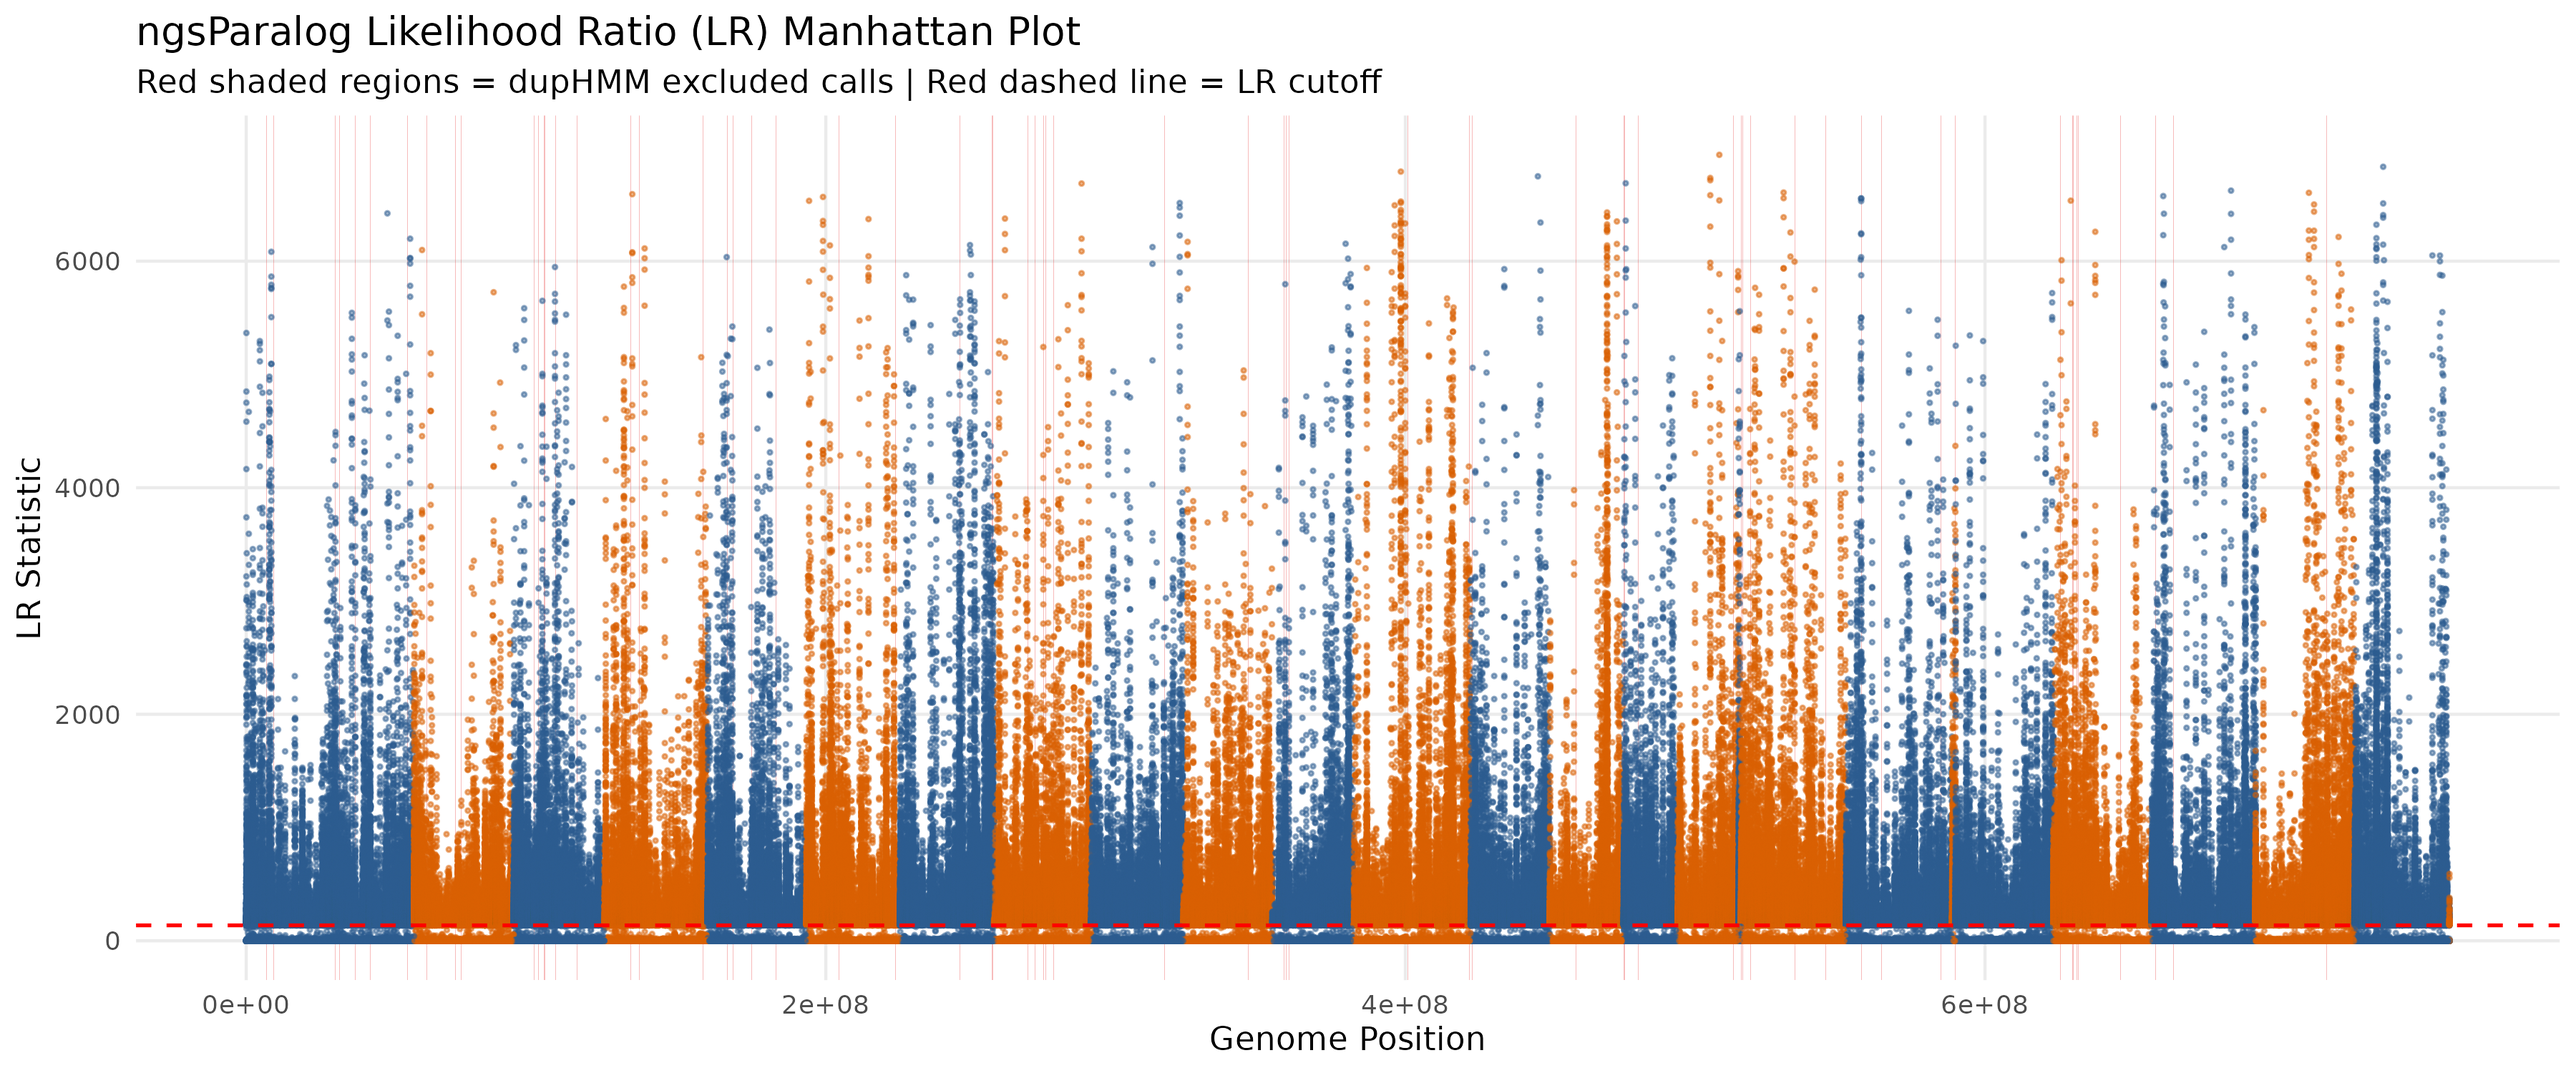
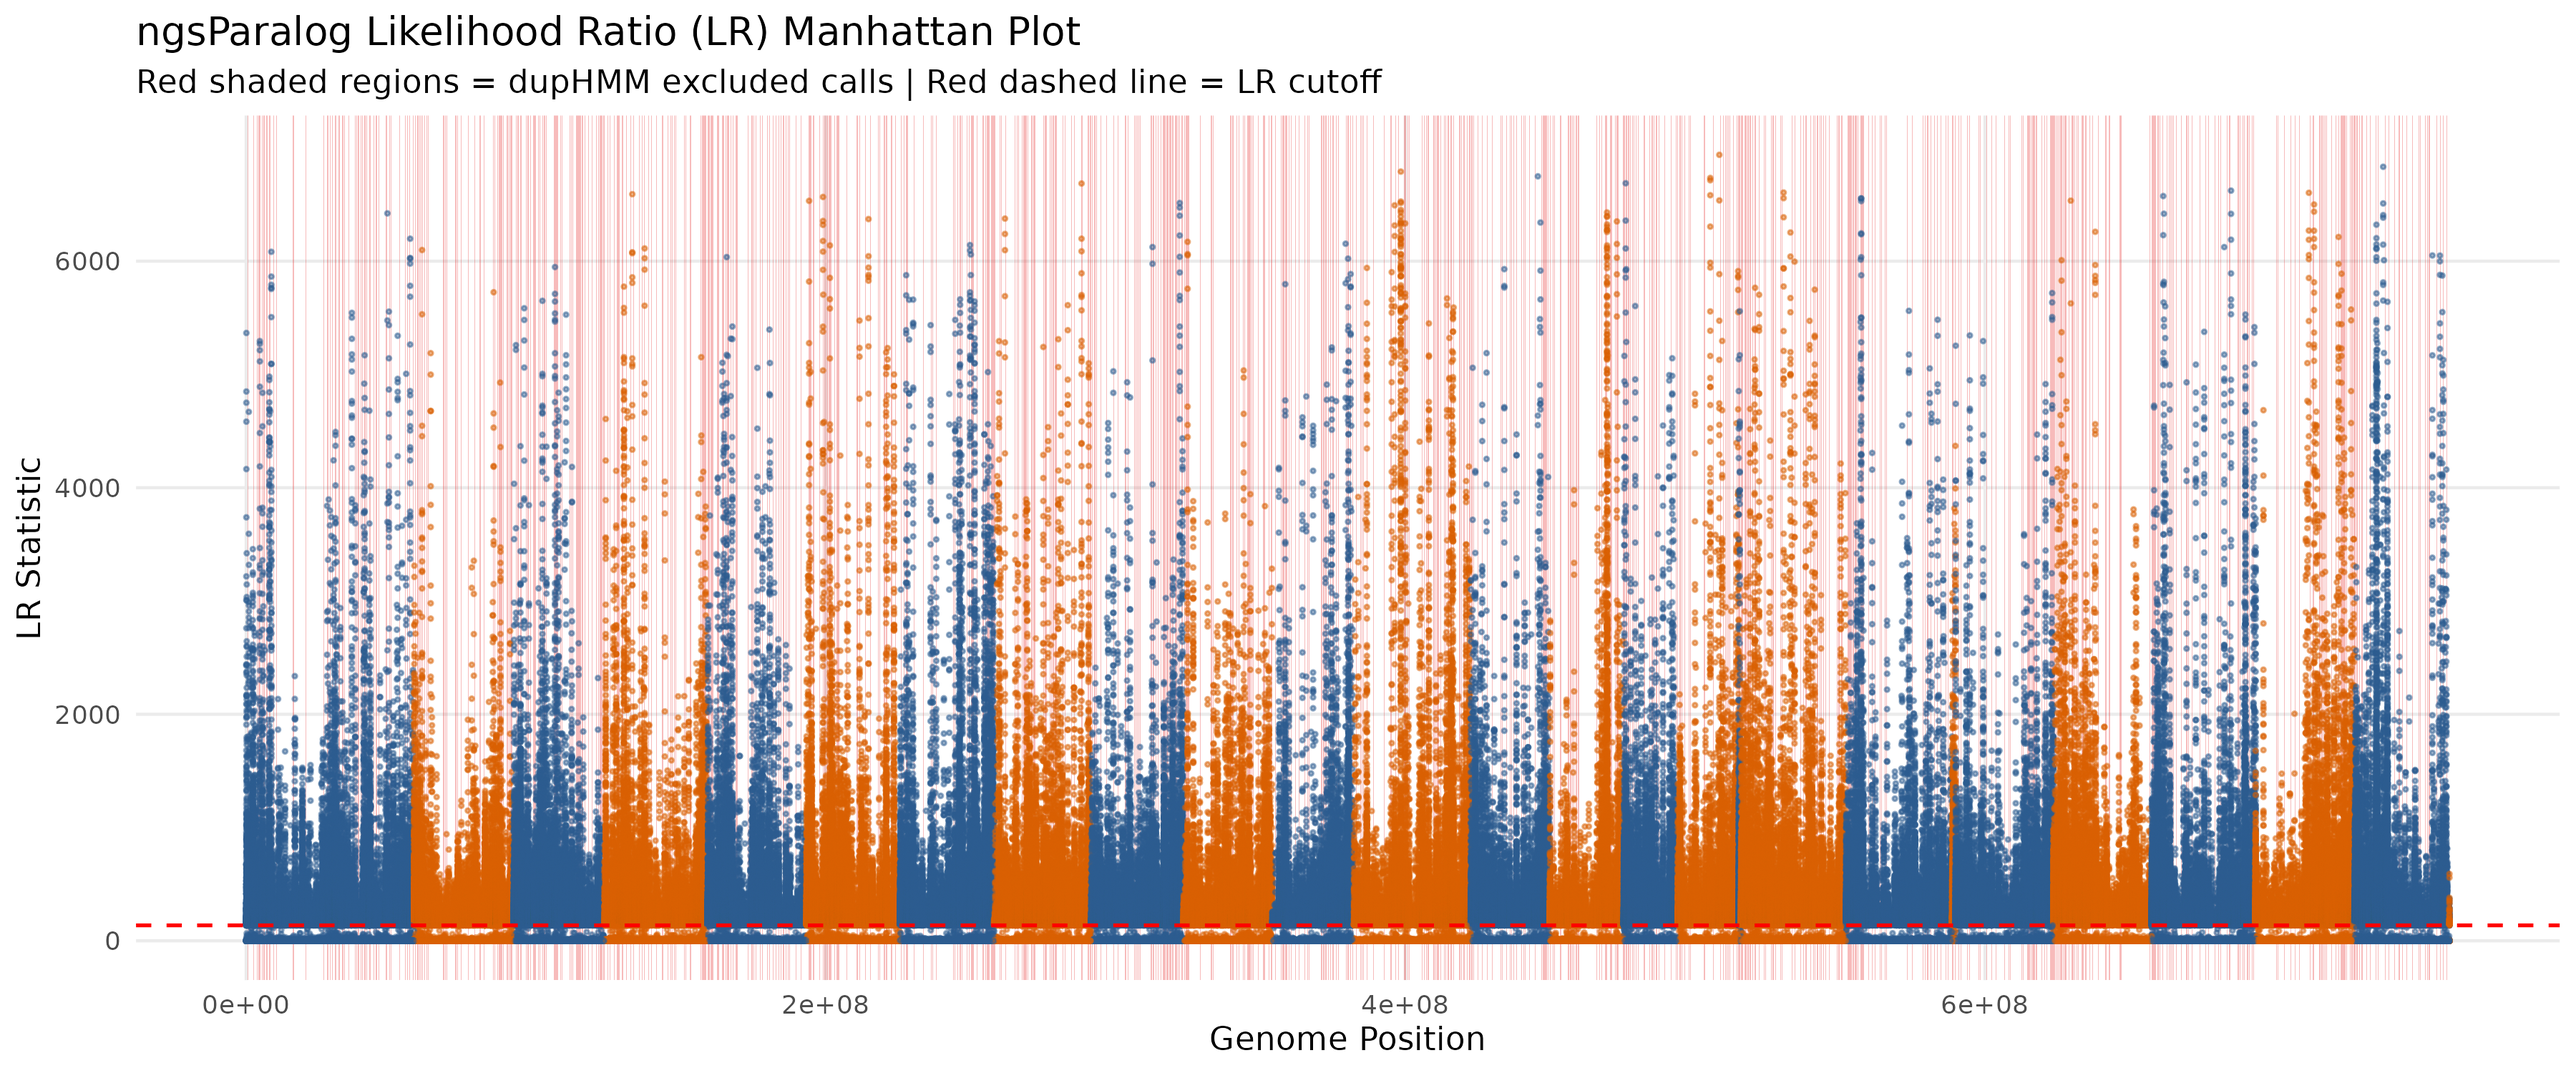
Finish nf-paralog plots, plot paralog and repeat masking overlaps

Changed region(s): [[0.0933, 0.092, 0.9644, 0.736], [0.0933, 0.8587, 0.9644, 0.92]]

diff --git a/README.md b/README.md
@@ -526,90 +526,8 @@ Wrote `output/mia/CviAPal032_Ex1_4G.maln.F.mia_consensus.3x_0.67_filtered.fasta`
 
 Both are empty.
 
-
-## 11 Test for paralogs
-Some SFS plots made for a different project (`pire_synthesis`) have an excess of loci with alleles at 50:50. Let's test for paralogs by
-
-1. Testing for excess heterozygosity and depth with angsd
-2. Running `ngsParalog`
-
-Start by copying over the base of the nf-trim-generode pipeline:
-```
-rsync -a --exclude='work/' --exclude='results/' --exclude='results-iridian/' --exclude='.nextflow/' --exclude='.nextflow.log*' /archive/carpenterlab/pire/mpinsky/pire_chromis_viridis_lcwgs/nf-pipelines/nf-trim-generode/ /archive/carpenterlab/pire/mpinsky/pire_chromis_viridis_lcwgs/nf-pipelines/nf-paralog/
-
-cd nf-pipelines/nf-paralog
-```
-
-Wrote a new [`main.nf`](nf-pipelines/nf-paralog/main.nf) that maps the modern reads (without trimming to match the historical read length) with very few quality filters, then runs ANGSD (HWE and depth tests) and ngsParalog. Updated the [`nextflow.config`](nf-pipelines/nf-paralog/nextflow.config) file to match.
-
-The same parameters and input files as `nf-trim-generode` should be good. Set parameter flags for runnning dupHMM with both LR and coverage. 
-
-Also set:
-```
-params.min_ind_ratio = 0.5 // Require coverage in at least 50% of samples
-params.high_depth_quantile = 0.995 // target high depth percentile cutoff
-params.lr_quantile = 0.999 // Target percentile cutoff for ngsParalog likelihood ratio (e.g., 0.999 = top 0.1% highest LR sites)
-params.hwe_pval    = 1e-3  // Target p-value threshold for HWE excess heterozygosity filtering. This is quite high for only 9 modern individuals.
-params.duphmm_merge_dist = -1  // Maximum distance (bp) between regions to merge in output from dupHMM. -1 will merge only overlapping regions
-params.duphmm_min_len    = 1  // Minimum length (bp) threshold for retained regions in output from dupHMM. Retain all.
-params.mask_window   = 1000  // Distance (bp) to extend masking in both directions around identified paralogous regions/SNPs
-```
-
-Start it in the existing tmux shell:
-```
-tmux a -t nextflow
-cd ../nf-paralog/
-nextflow run main.nf -profile wahab -resume
-```
-
-Output:
-```
-[ANGSD_HWE_DEPTH] Total BAMs: 9 | Calculated minInd: 4
-Calculated Average Read Length: 147.359 bp
-Estimated Mean Population Depth: 49.5492x
-Setting ANGSD -setMaxDepth input filter for depthGlobal histogram to 500 to filter out coverage spikes
-High depth cutoff (0.995 quantile) for flagging problematic high-depth regions: 100 total depth
-```
-
-BED files, fastp reports, site allele balance, bam files and other results in the `results/` directory (including `large_data/` not tracked by git). Key plots are:
-![Allele balance](nf-pipelines/nf-paralog/results/plots/allele_balance_vs_het.png)
-
-![Manhattan plot of mapped depth](nf-pipelines/nf-paralog/results/plots/angsd_depth_manhattan.png)
-
-![Manhattan plot of HWE disequilibrium](nf-pipelines/nf-paralog/results/plots/angsd_hwe_manhattan.png)
-
-![Manhattan plot of ngsParalog likelihood ratios for paralogous regions](nf-pipelines/nf-paralog/results/plots/ngsparalog_lr_manhattan.png)
-
-![Histogram of the length of regions flagged by each method](nf-pipelines/nf-paralog/results/plots/filter_region_length_histograms.png)
-
-![Barplot of overlap among the regions flagged by each methods](nf-pipelines/nf-paralog/results/plots/paralog_filter_overlaps.png)
-
-![Manhattan plot of the overlap among regions flagged by each method](nf-pipelines/nf-paralog/results/plots/filter_overlaps_manhattan.png)
-
-### 11.1 Do paralogous and repeat regions overlap?
-Made a script to plot the overlap of Repeat Masker's identified regions and the newly identified regions. From the base directory:
-```
-sbatch scripts/plot_repeat_paralog_overlaps.sbatch
-```
-![Plot of overlapping regions between repeat and paralog detection methods](output/paralogs/repeats_paralog_overlaps.png).
-
-Shows that
-
-1) RepeatMasker found by far the largest length of problematic regions (158 Mb)
-2) Most (75%) of the regions found by DUPHMM were also found by RepeatMasker
-
-For Cvi, RepeatMasker looks like the more important mask.
-
-
-### 11.2 Clean up
-Remove the 214G temporary directory:
-```
-rm -r nf-pipelines/nf-paralog/work/
-```
-
-
-## 12. Retrim and map only Cvi individuals with nf-trim-generode
-Trimming and mapping pipeline that includes repeat masking, doesn't trim historical reads, includes bug-fixed `split_reads.sh`, does mapdamage rescaling of bam files, and merges repeat mask with a paralog mask. Get the files from an updated branch in my home directory, then made edits (now also available from the [nf-pipelines](https://github.com/philippinespire/nf-pipelines/) repo).
+## 11. Retrim and map only Cvi individuals with nf-trim-generode
+Trimming and mapping pipeline that includes repeat masking, doesn't trim historical reads, includes bug-fixed `split_reads.sh`, and does mapdamage rescaling of bam files. Get the files from an updated branch in my home directory, then made edits (now also available from the [nf-pipelines](https://github.com/philippinespire/nf-pipelines/) repo).
 ```
 cd /archive/carpenterlab/pire/mpinsky/
 rsync -a --exclude='work/' --exclude='results/' --exclude='.nextflow*' --exclude='.nextflow/' --exclude='examples/' nf-pipelines/nf-trim-generode pire_chromis_viridis_lcwgs/nf-pipelines/
@@ -672,14 +590,14 @@ Finished in 7 hrs. Found 103 bp average historical length and mapped with `bwa m
 
 Inspecting the [AMBER plots](nf-pipelines/nf-trim-generode/results/amber), the read length gap from 50-60bp has been fixed by the new `split_reads.sh` script. The historical reads have a wider read length distribution than the modern since there is a substantial fraction of short historical reads, plus some merged historical reads. The [mapdamage plots](nf-pipelines/nf-trim-generode/results/mapdamage/) still show many soft-clipped historical reads, despite stricter mapping, but very little evidence of historical damage patterns. Could summarize the `*_misincorporation.txt` files into a multi-individual plot.
 
-### 12.2 Depth vs. reads
+### 11.2 Depth vs. reads
 Plot read depth vs. number of reads
 ```
 sbatch scripts/plot_depth_vs_reads.sbatch nf-pipelines/nf-trim-generode/data/symlinks nf-pipelines/nf-trim-generode/results/depth output/depth_vs_reads_nf-trim-generode.txt output/depth_vs_reads_nf-trim-generode.pdf
 ```
 [Plot](output/depth_vs_reads_nf-trim-generode.pdf) shows that, as expected, depth increases with the number of reads. Depth increases much more strongly for modern than for historical individuals.
 
-### 12.3 Softclipping
+### 11.3 Softclipping
 Run mapdamage diagnostics on the modern Cvi files with a custom script to check if they also have soft-clipping:
 ```
 sbatch scripts/run_mapdamage_diagnostics.sbatch
@@ -691,6 +609,86 @@ Also make histograms of fraction soft-clipped by individual and by contig with a
 sbatch scripts/soft_clip_analysis.sbatch nf-pipelines/nf-trim-generode/results/data/bam/*.bam
 ```
 The [histogram by contig](output/softclip_analysis/histogram_soft_clipped_per_contig.png) shows a handful of contigs with >30% clipping. A [handful of individuals](output/softclip_analysis/histogram_soft_clipped_per_individual.png) also have a lot of soft-clipping.
+
+## 12 Test for paralogs
+Some SFS plots made for a different project (`pire_synthesis`) have an excess of loci with alleles at 50:50. Let's test for paralogs by
+
+1. Testing for excess heterozygosity and depth with angsd
+2. Running `ngsParalog`
+
+Start by copying over the base of the nf-trim-generode pipeline:
+```
+rsync -a --exclude='work/' --exclude='results/' --exclude='results-iridian/' --exclude='.nextflow/' --exclude='.nextflow.log*' /archive/carpenterlab/pire/mpinsky/pire_chromis_viridis_lcwgs/nf-pipelines/nf-trim-generode/ /archive/carpenterlab/pire/mpinsky/pire_chromis_viridis_lcwgs/nf-pipelines/nf-paralog/
+
+cd nf-pipelines/nf-paralog
+```
+
+Wrote a new [`main.nf`](nf-pipelines/nf-paralog/main.nf) that maps the modern reads (without trimming to match the historical read length) with very few quality filters, then runs ANGSD (HWE and depth tests) and ngsParalog. Updated the [`nextflow.config`](nf-pipelines/nf-paralog/nextflow.config) file to match.
+
+The same parameters and input files as `nf-trim-generode` should be good. Set parameter flags for runnning dupHMM with both LR and coverage. 
+
+Also set:
+```
+params.min_ind_ratio = 0.5 // Require coverage in at least 50% of samples
+params.high_depth_quantile = 0.995 // target high depth percentile cutoff
+params.lr_quantile = 0.999 // Target percentile cutoff for ngsParalog likelihood ratio (e.g., 0.999 = top 0.1% highest LR sites)
+params.hwe_pval    = 1e-3  // Target p-value threshold for HWE excess heterozygosity filtering. This is quite high for only 9 modern individuals.
+params.duphmm_merge_dist = -1  // Maximum distance (bp) between regions to merge in output from dupHMM. -1 will merge only overlapping regions
+params.duphmm_min_len    = 1  // Minimum length (bp) threshold for retained regions in output from dupHMM. Retain all.
+params.mask_window   = 1000  // Distance (bp) to extend masking in both directions around identified paralogous regions/SNPs
+```
+
+Start it in the existing tmux shell:
+```
+tmux a -t nextflow
+cd ../nf-paralog/
+nextflow run main.nf -profile wahab -resume
+```
+
+Output:
+```
+[ANGSD_HWE_DEPTH] Total BAMs: 9 | Calculated minInd: 4
+Calculated Average Read Length: 147.359 bp
+Estimated Mean Population Depth: 49.5492x
+Setting ANGSD -setMaxDepth input filter for depthGlobal histogram to 500 to filter out coverage spikes
+High depth cutoff (0.995 quantile) for flagging problematic high-depth regions: 100 total depth
+```
+
+BED files, fastp reports, site allele balance, bam files and other results in the `results/` directory (including `large_data/` not tracked by git). Key plots are:
+![Allele balance](nf-pipelines/nf-paralog/results/plots/allele_balance_vs_het.png)
+
+![Manhattan plot of mapped depth](nf-pipelines/nf-paralog/results/plots/angsd_depth_manhattan.png)
+
+![Manhattan plot of HWE disequilibrium](nf-pipelines/nf-paralog/results/plots/angsd_hwe_manhattan.png)
+
+![Manhattan plot of ngsParalog likelihood ratios for paralogous regions](nf-pipelines/nf-paralog/results/plots/ngsparalog_lr_manhattan.png)
+
+![Histogram of the length of regions flagged by each method](nf-pipelines/nf-paralog/results/plots/filter_region_length_histograms.png)
+
+![Barplot of overlap among the regions flagged by each methods](nf-pipelines/nf-paralog/results/plots/paralog_filter_overlaps.png)
+
+![Manhattan plot of the overlap among regions flagged by each method](nf-pipelines/nf-paralog/results/plots/filter_overlaps_manhattan.png)
+
+Without the 1kb padding in each direction, DUPHMM identified 14 Mb of paralogous regions (250,000 were 1 bp wide), see `nf-pipelines/nf-paralog/results/paralogs/ngsparalog_duphmm_regions.bed`. With padding, it masks 203 Mb, see `nf-pipelines/nf-paralog/results/paralogs/ngsparalog_duphmm_regions.filtered.padded.bed`. 
+
+### 12.1 Do paralogous and repeat regions overlap?
+Made a script to plot the overlap of Repeat Masker's identified regions and the newly identified regions (including padding). From the base directory:
+```
+sbatch scripts/plot_repeat_paralog_overlaps.sbatch
+```
+![Plot of overlapping regions between repeat and paralog detection methods](output/paralogs/repeats_paralog_overlaps.png).
+
+Shows that
+
+1) RepeatMasker masks 167 Mb
+2) DUPHMM, with 1 kb padding, masks 203 Mb
+2) 35% of the regions found by DUPHMM were also found by RepeatMasker (72 Mb)
+
+### 12.2 Clean up
+Remove the 458G temporary directory:
+```
+rm -r nf-pipelines/nf-paralog/work/
+```
 
 ## 13 Map against a new reference
 _Note: Redid mapping here in October 2026 after Jason Selwyn found uncorrupted raw fastq files._
